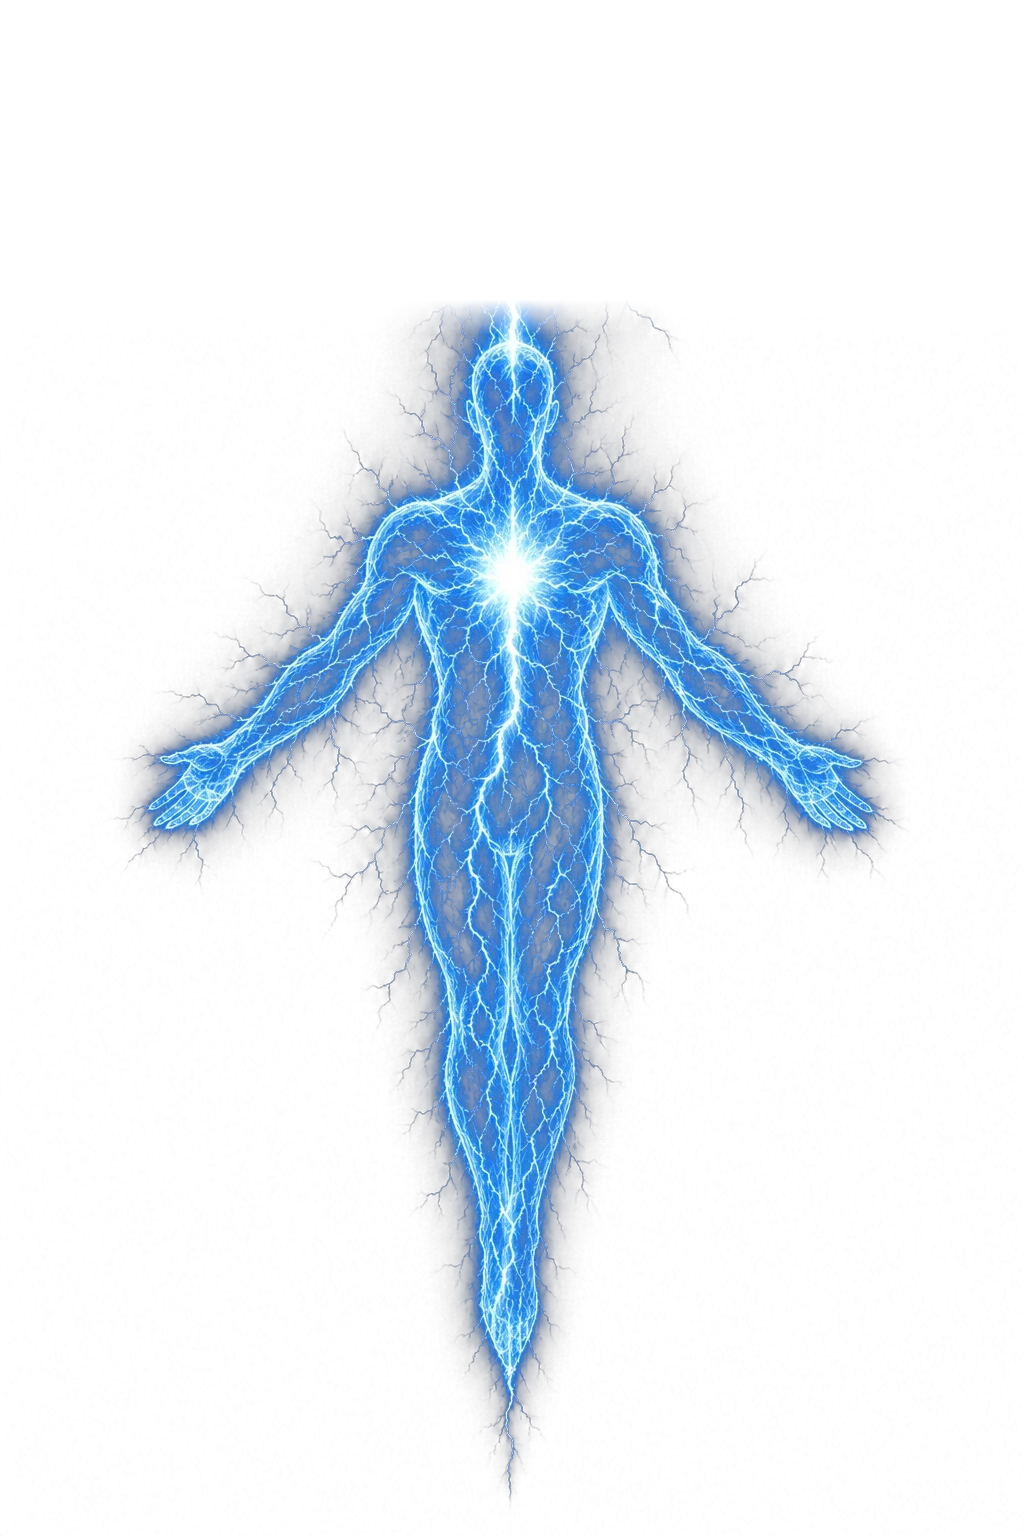
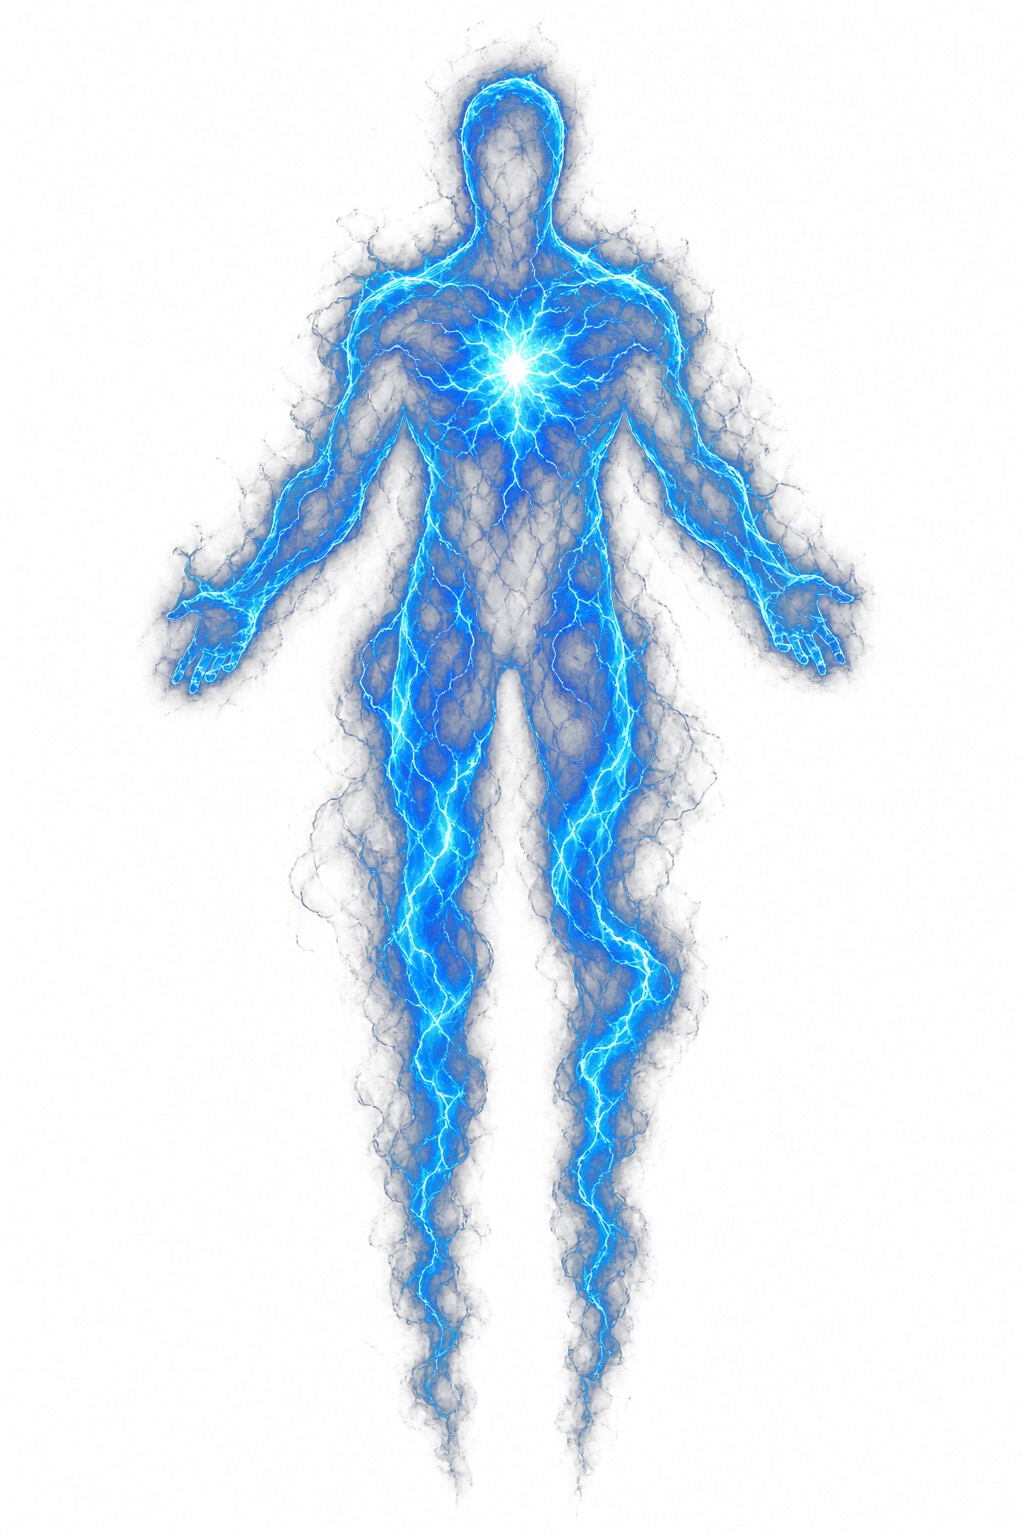
Separate phantom legs and enlarge figure ~45%
Regenerate phantom asset with distinct levitating leg energy streams
that no longer merge at the bottom. Increase desktop/mobile sizing
by ~45% and nudge vertical position to keep the larger figure framed.

diff --git a/src/components/PhantomEntity.css b/src/components/PhantomEntity.css
@@ -1,9 +1,9 @@
 .phantom-entity {
   position: absolute;
-  top: 36%;
+  top: 38%;
   left: 50%;
   z-index: 2;
-  width: clamp(300px, 38vw, 560px);
+  width: clamp(435px, 55vw, 812px);
   aspect-ratio: 2 / 3;
   transform: translate(-50%, -50%);
   transition: transform 1.4s ease;
@@ -469,8 +469,8 @@
 
 @media (max-width: 640px) {
   .phantom-entity {
-    top: 34%;
-    width: clamp(220px, 62vw, 340px);
+    top: 36%;
+    width: clamp(319px, 90vw, 493px);
   }
 
   .phantom-entity__strike-bolt {
